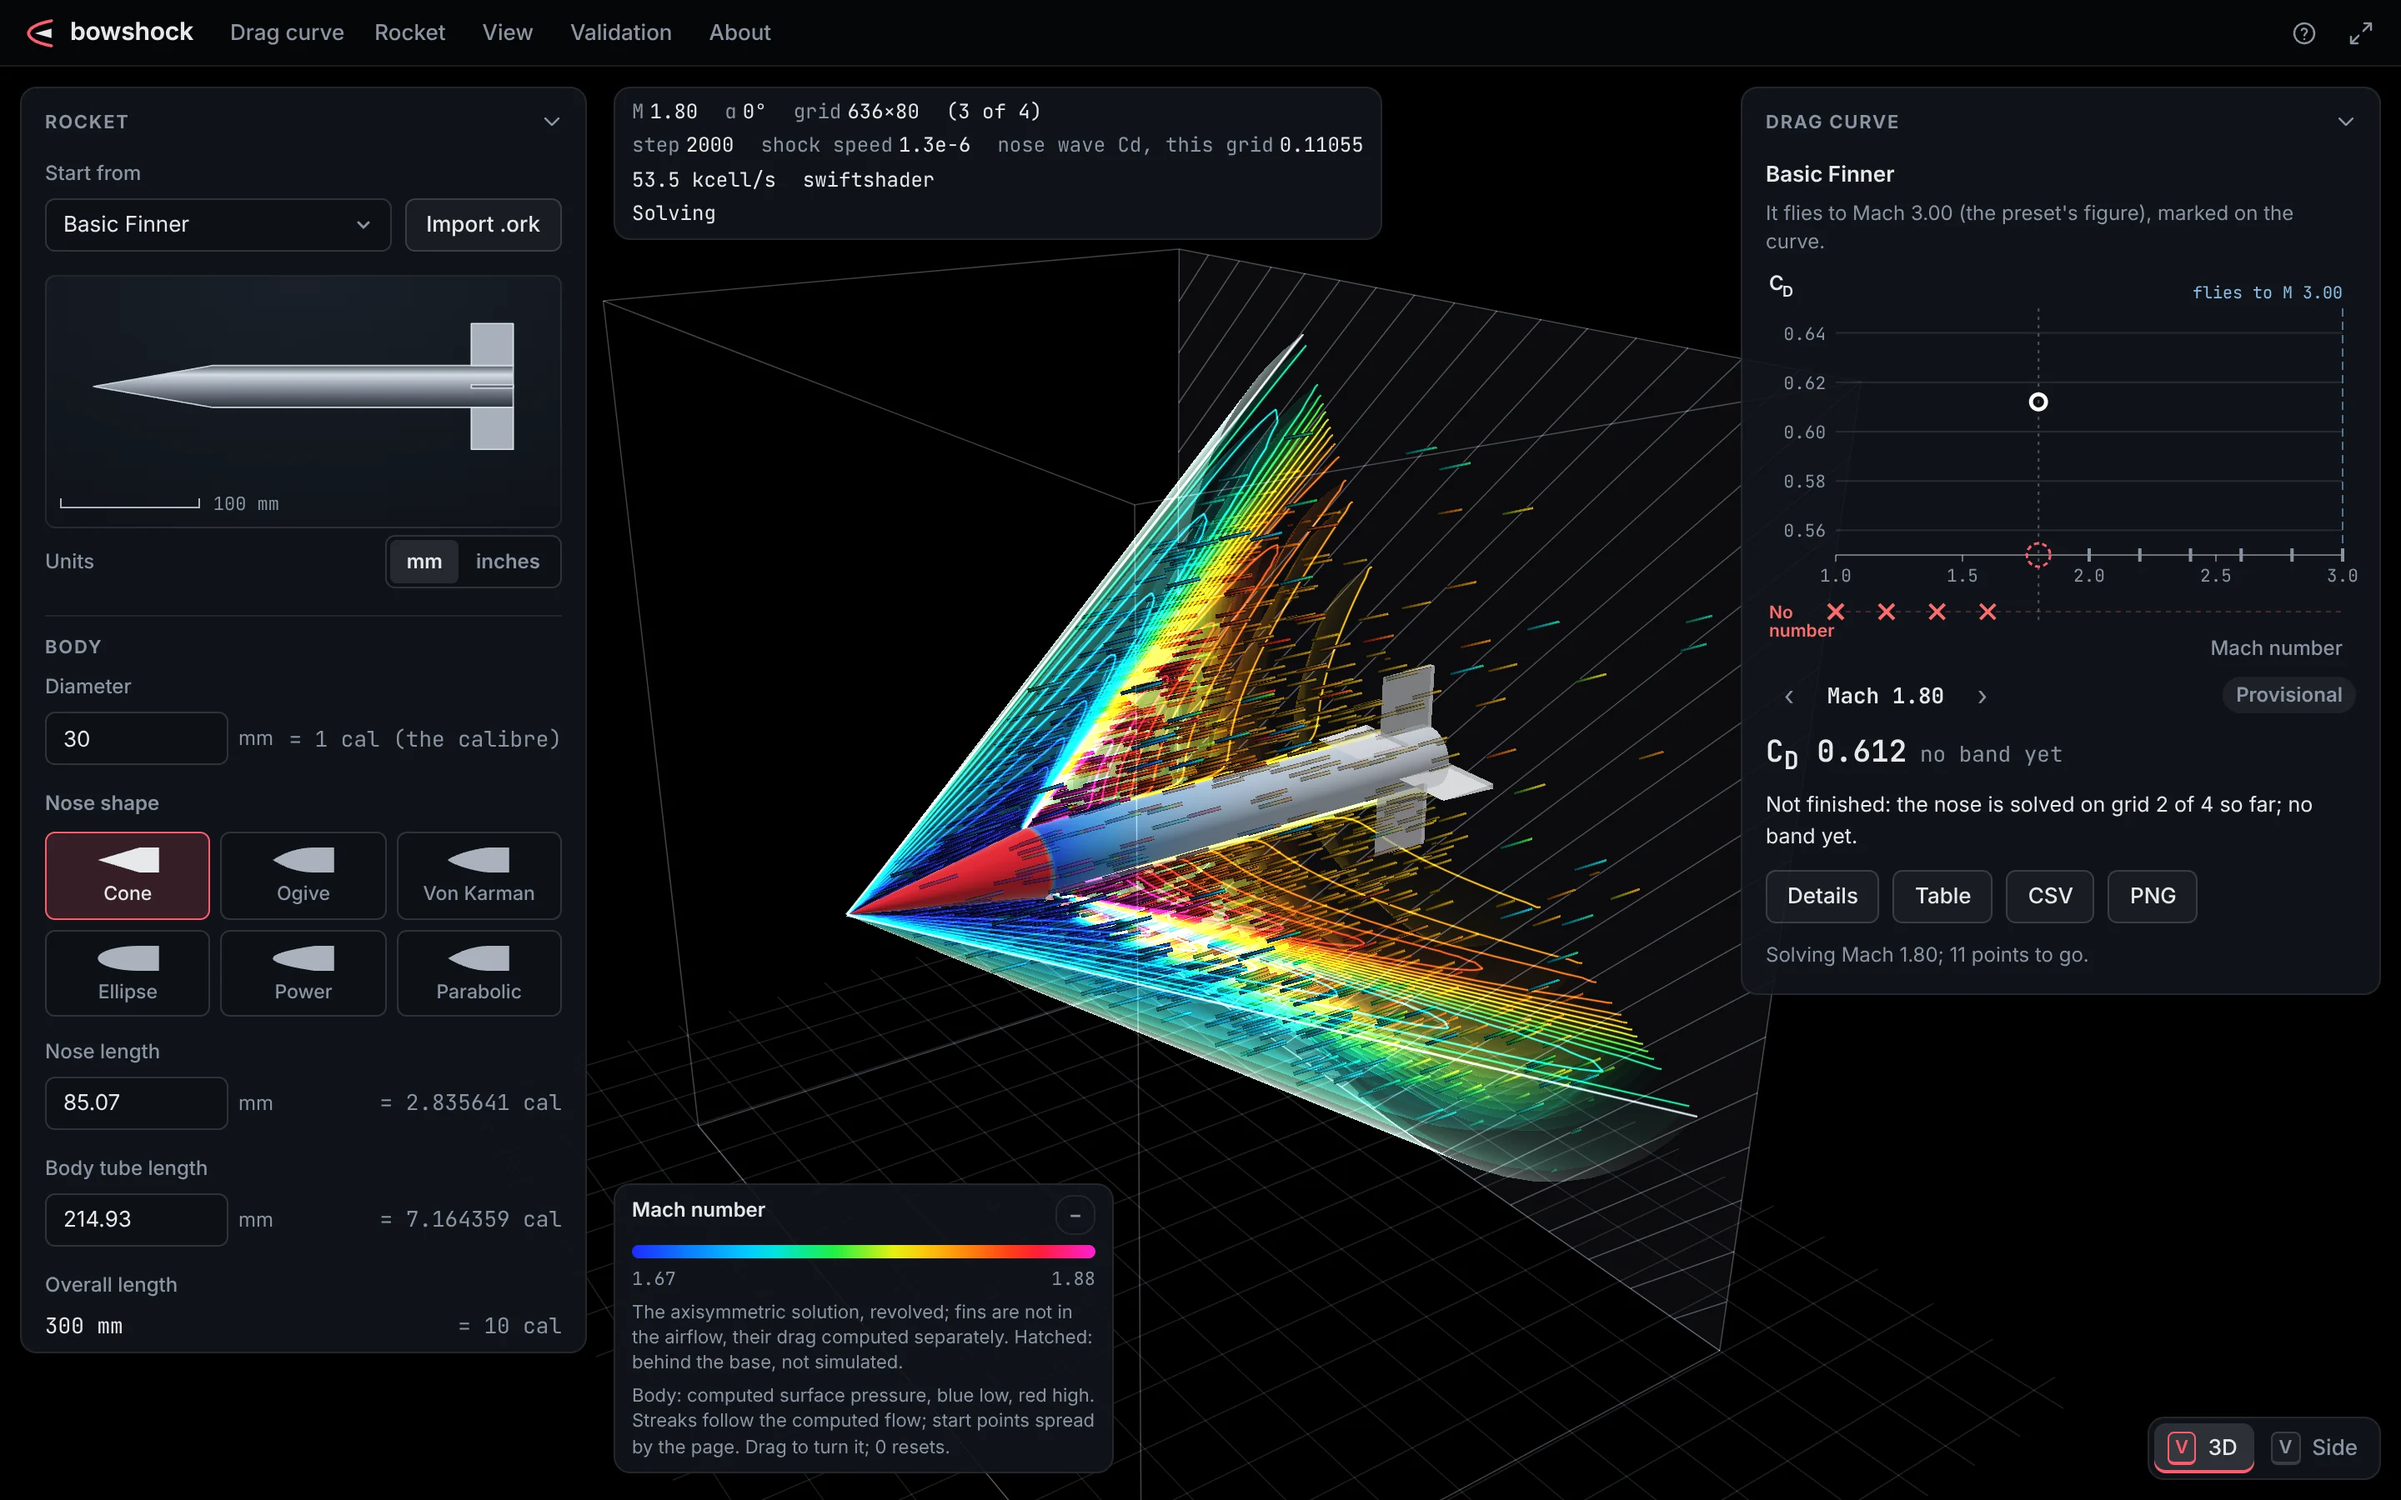
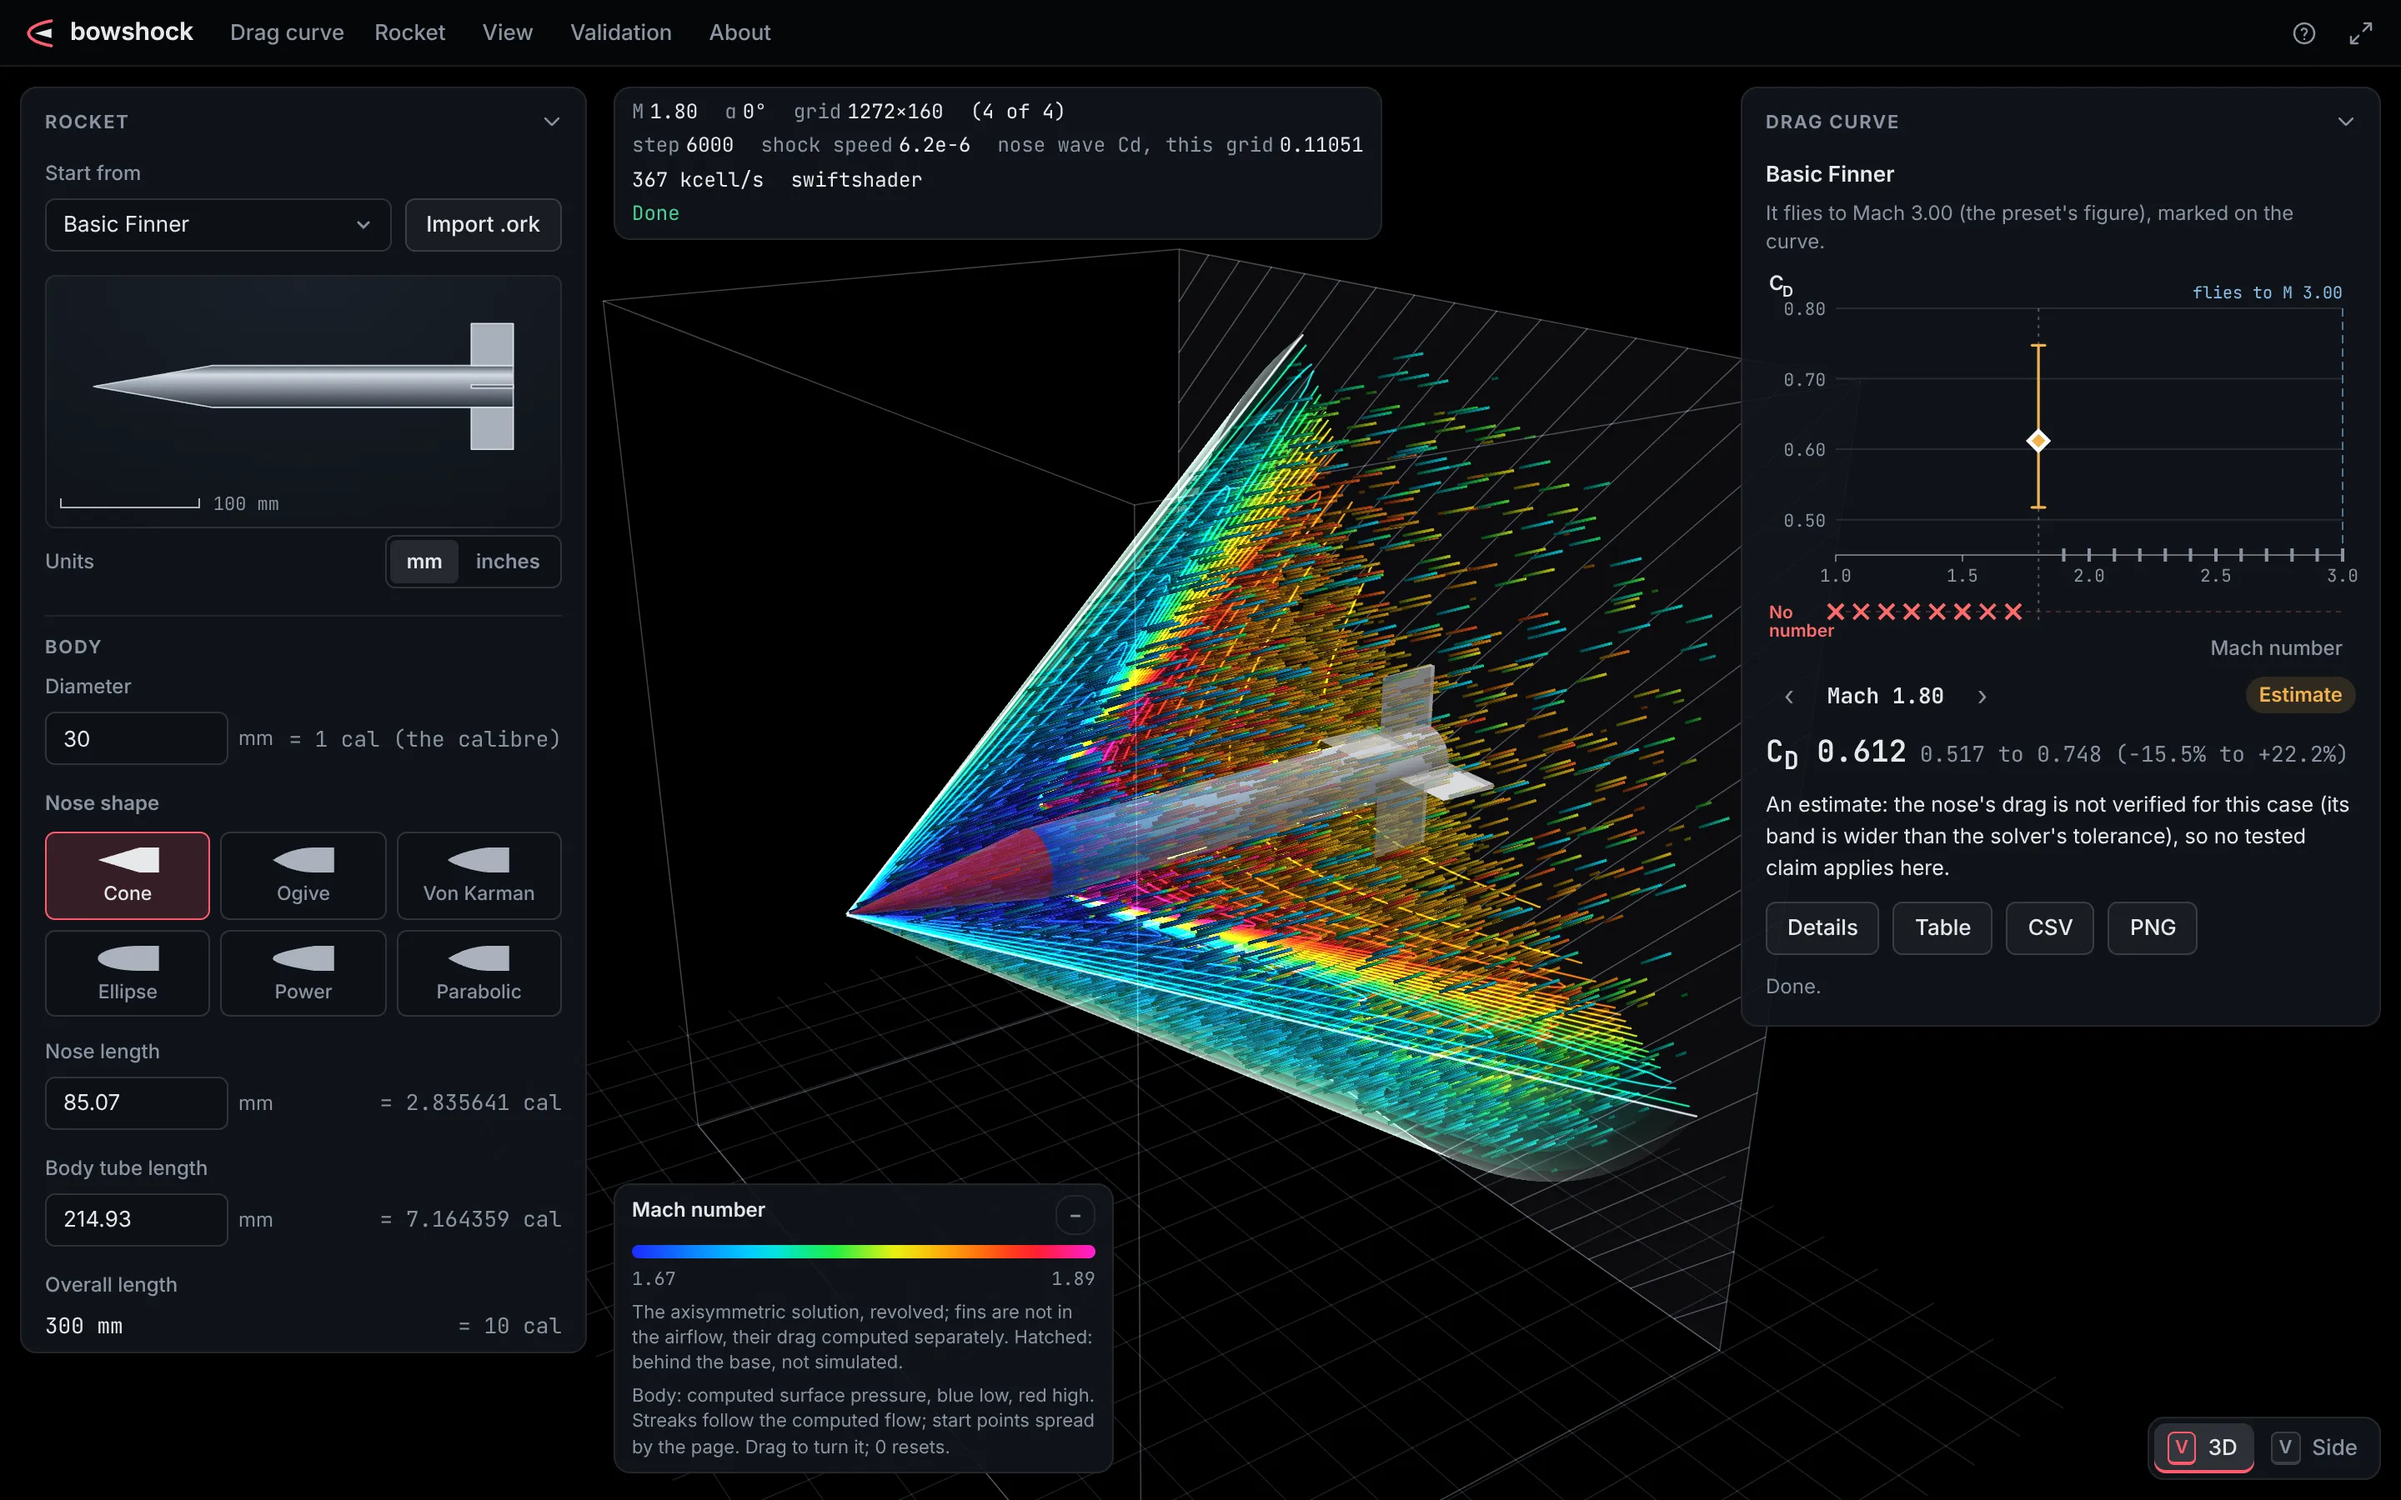
README: a new screenshot, the Basic Finner at Mach 1.8 on the 160-cell grid
The app at its finer grid choice (160 cells across, four grids) with a
point every 0.1 in Mach number, run until Mach 1.8 was done and stopped
there, so the 3D view and the readout show that point's flow on its
finest grid (1272 by 160, 4 of 4). Mach 1.8 reads Estimate: CD 0.612,
0.517 to 0.748. The alt text says so.

The 320-cell grid was tried first; a container restart ended it after
5 h 16 min of an estimated 13 h, and 160 cells was chosen instead.

Claude-Session: https://claude.ai/code/session_0163Kjgu2mBYMZoTA3auoaEV

diff --git a/README.md b/README.md
@@ -9,7 +9,7 @@ Nothing to install and nothing to pay.
 **[Try it](https://ahroonsanthosh.github.io/bowshock/)** (needs WebGPU, such
 as a recent Chrome or Edge).
 
-![The app at 2880 by 1800: the Basic Finner at Mach 1.8 in the 3D view, flow streaks coloured by Mach number around the cone, the builder on the left and the drag curve on the right](docs/images/hero.webp)
+![The app at 2880 by 1800: the Basic Finner at Mach 1.8 in the 3D view, its flow on the finest grid, 160 cells across, with streaks coloured by Mach number around the cone; the builder on the left; on the right the drag curve, a point every 0.1 in Mach number, run to Mach 1.8 only, where it reads Estimate, CD 0.612 (0.517 to 0.748), with no number below Mach 1.8](docs/images/hero.webp)
 
 > Early days. Please don't use it for flight decisions yet.
 
